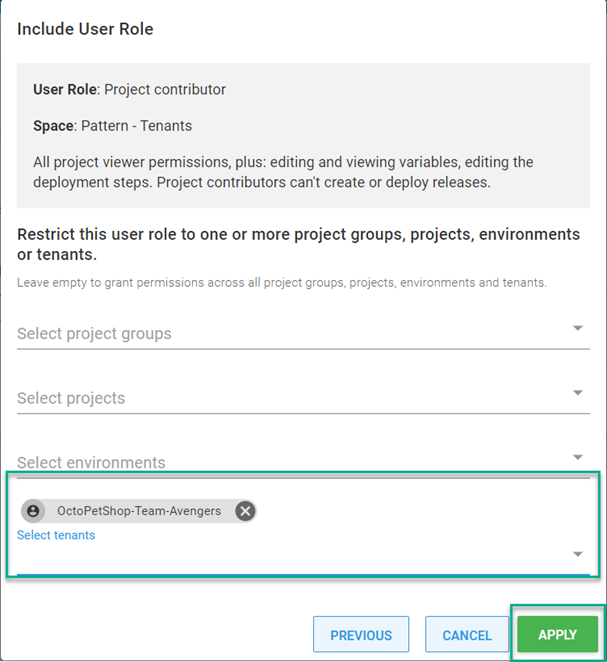
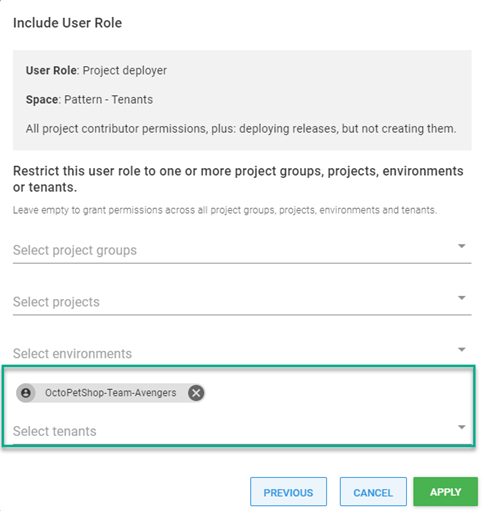
More content

diff --git a/docs/tenants/guides/multi-tenant-teams/deploying-team-tenant.md b/docs/tenants/guides/multi-tenant-teams/deploying-team-tenant.md
@@ -5,3 +5,15 @@ position: 50
 hideInThisSectionHeader: true
 ---
 
+Scoping the Teams to their respecitive tenants give Teams Avengers and Radical the autonomy of deploying Octo Pet Shop without interfering with the each other.
+
+## Scoped team creating a release
+Developers for Team Avengers have the ability to create a release, but only deploy to their own tenant.  When deploying to Development, the OctoPetShop-Team-Avengers tenant is automatically selected.
+
+![](images/team-avengers-deploy.png)
+
+Depending on how you scope your team for Environment, because the `OctoPetShop-Team-Avengers` tenant is only scoped for Development, attempting to deploy to test will result in a missing resource and the **DEPLOY** button disabled
+
+![](images/team-avengers-deploy-to-test.png)
+
+

diff --git a/docs/tenants/guides/multi-tenant-teams/assign-team-userrole-to-tenant.md b/docs/tenants/guides/multi-tenant-teams/assign-team-userrole-to-tenant.md
@@ -21,6 +21,6 @@ Select the tenant and click **APPLY**
 
 ![](images/octopus-teams-role-tenant.png)
 
-This configures the team with `Project Contributor` permissions to any project with the Tenant `OctoPetShop-Team-Avengers`
+This configures the team with `Release Creator` and `Project Deployer` permissions to any project with the Tenant `OctoPetShop-Team-Avengers`
 
 ![](images/octopus-teams-userroles.png)
